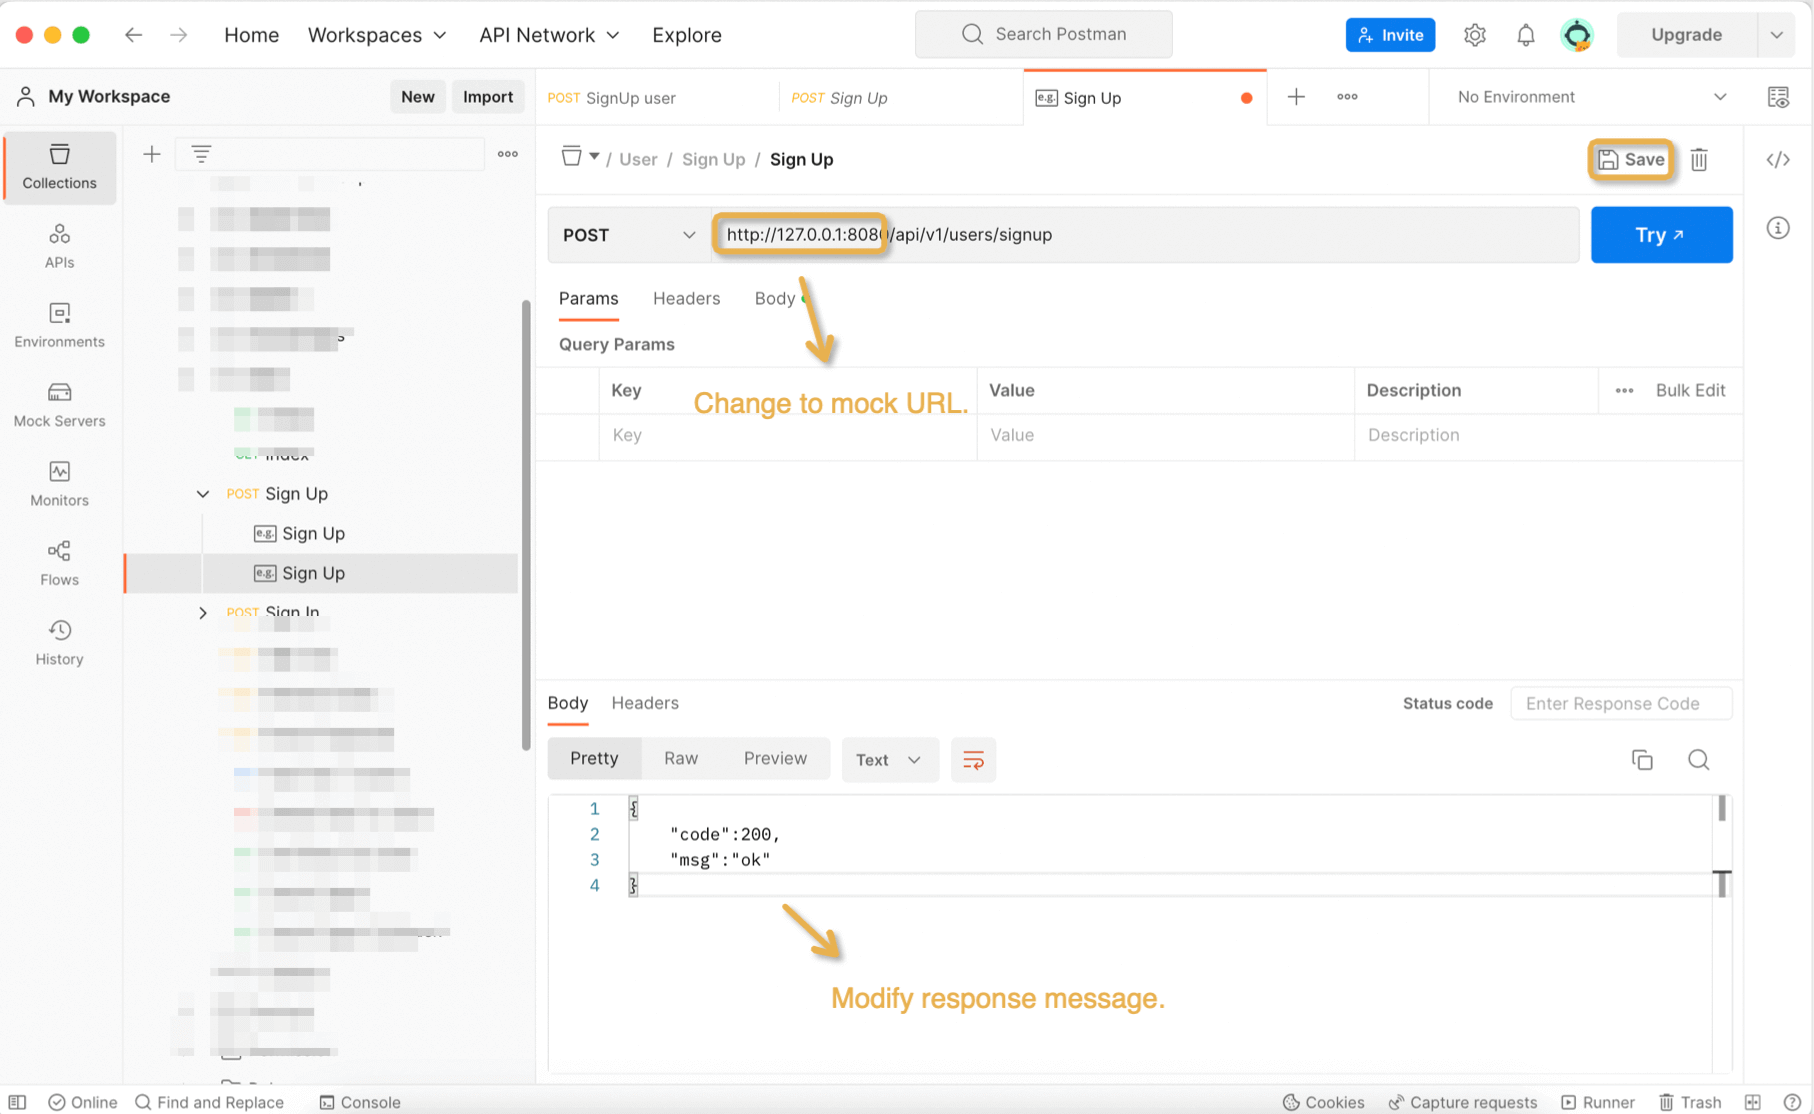
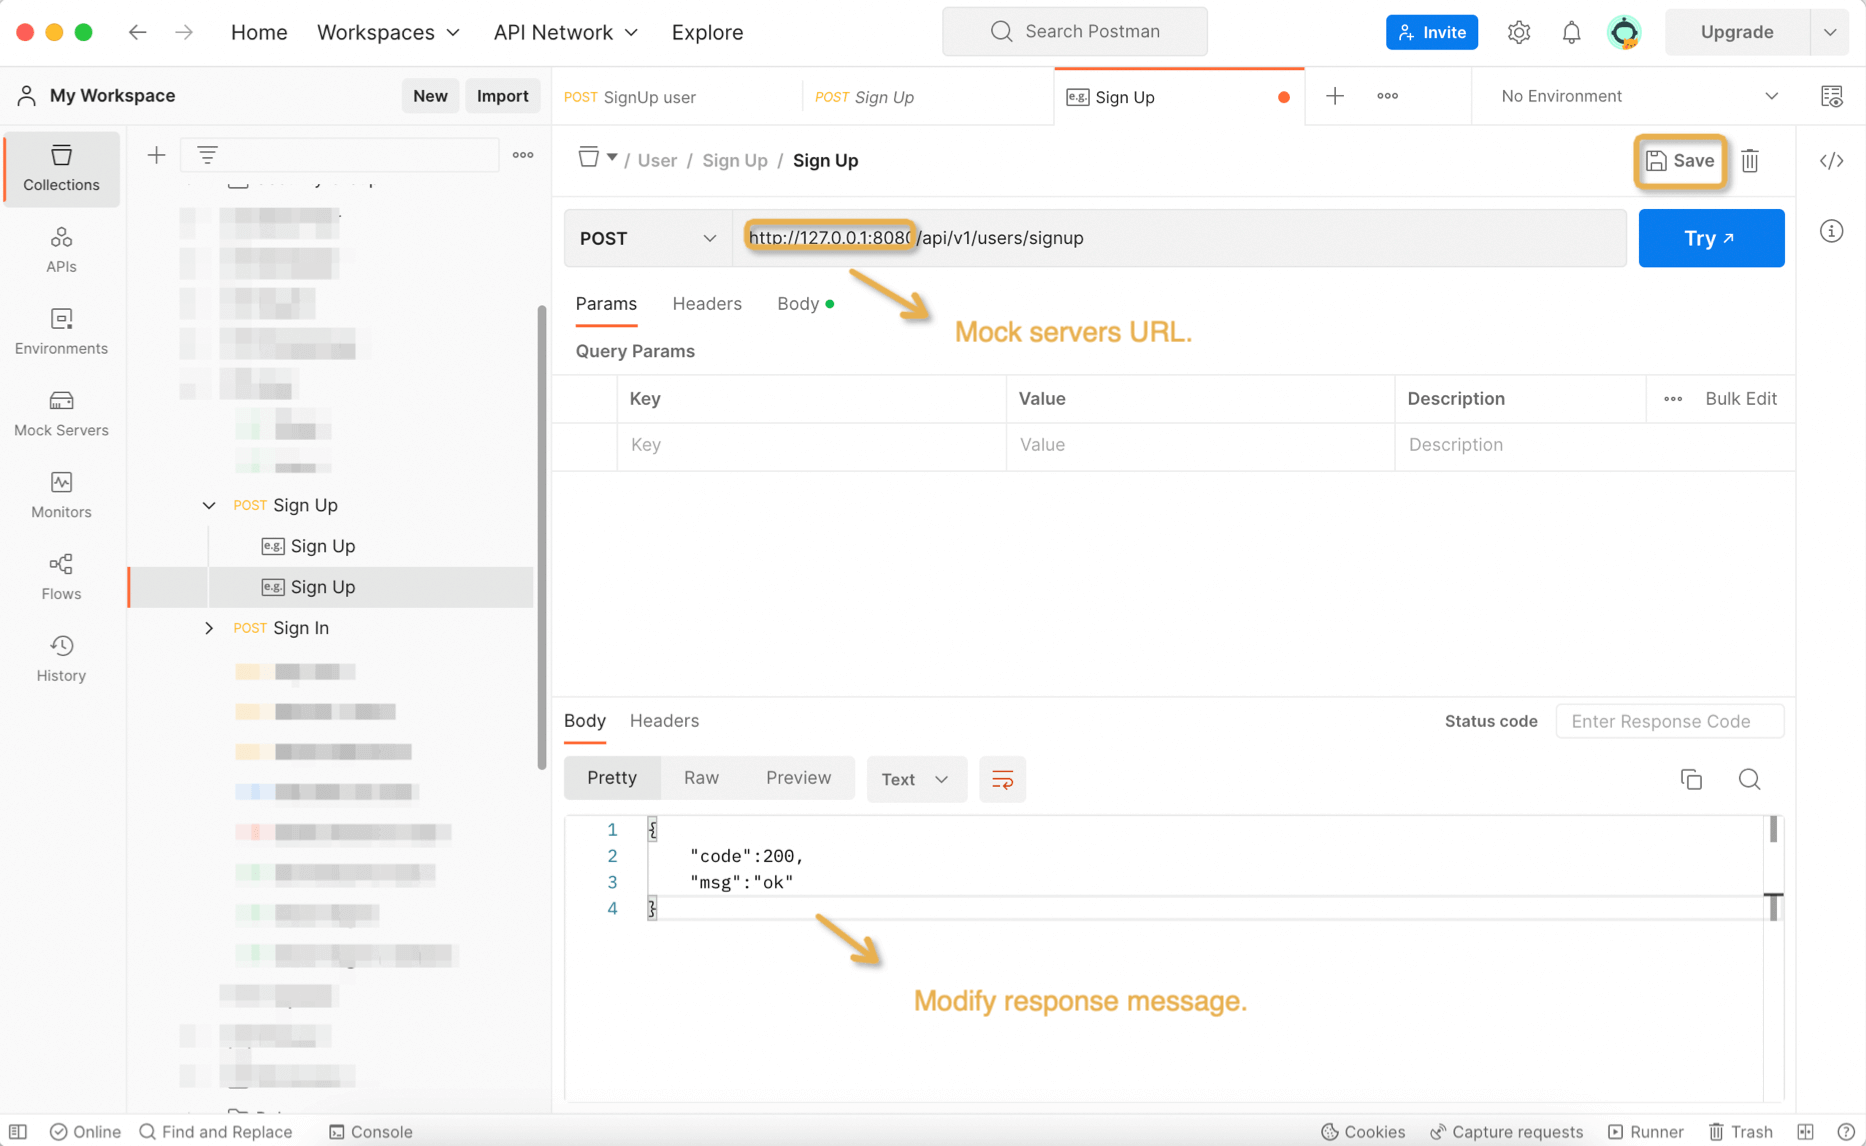
feat:add CONTROLBUTING.md

diff --git a/CONTRIBUTING.md b/CONTRIBUTING.md
@@ -262,15 +262,15 @@ Download the [app](https://www.postman.com/downloads) to get started with the Po
 
 If you need to use a mock server, please import the [swagger.yaml](https://raw.githubusercontent.com/dragonflyoss/Dragonfly2/main/api/manager/swagger.yaml) file of Dragonfly Manager, refer to [importing-and-exporting-data](https://learning.postman.com/docs/getting-started/importing-and-exporting-data/).
  
-  **Step 1:** Import API.
+**Step 1:** Import API.
 
 ![](/docs/images/contributing/postman-import.png)
 
-  **Step 2:** Copy swagger.yaml URl.
+**Step 2:** Copy swagger.yaml URl.
   
 ![](/docs/images/contributing/postman-import-api.png)
  
-  **Step 3:** Select OpenAPI 2.0 with Postman collection.
+**Step 3:** Select OpenAPI 2.0 with Postman collection.
 
 ![](/docs/images/contributing/postman-select.png)
     
@@ -278,34 +278,33 @@ If you need to use a mock server, please import the [swagger.yaml](https://raw.g
  
 To use mock servers, please do the following, refer to  [mocking-data-setting-up-mock](https://learning.postman.com/docs/designing-and-developing-your-api/mocking-data/setting-up-mock/).
 
-
-   **Step 1:** Choose the More Actions icon next to the collection you want to simulate, then choose Simulate Collection.
+**Step 1:** Choose Collections in the sidebar, choose the more actions icon next to the collection you want to mock, and then choose Mock collection.
 
 ![](/docs/images/contributing/postman-mock-collection.png)
     
-   **Step 2:** Supplement the simulated server name information and save it.
+**Step 2:** Supplement the simulated server name information and save it.
 
 ![](/docs/images/contributing/postman-creat-mock.png)
 
-   **Step 3:** Copy mock URL.
+**Step 3:** Copy mock servers URL.
 
 ![](/docs/images/contributing/postman-copy-mockUrl.png)
     
-   **Step 4:** Replace the mock URL to initiate the request.
+**Step 4:** Replace the mock servers URL to initiate the request.
    
  ![](/docs/images/contributing/postman-change-path.png)
 
-   **Step 5:** If your request fails and says you want an example, then you need to create an example.
+**Step 5:** If your request fails and says you want an example, then you need to create an example.
 
 ![](/docs/images/contributing/postman-add-example.png)
     
-   **Step 6:** Modify the name such as signup, modify the response message, and save the example.
+**Step 6:** Modify the name such as signup, modify the response message, and save the example.
 
 ![](/docs/images/contributing/postman-chang-mock-path.png) 
 
 #### Verification successful
 
- Open mock servers to view all request responses.
+Open mock servers to view all request responses.
 
 
 ![](/docs/images/contributing/postman-verify.png)
